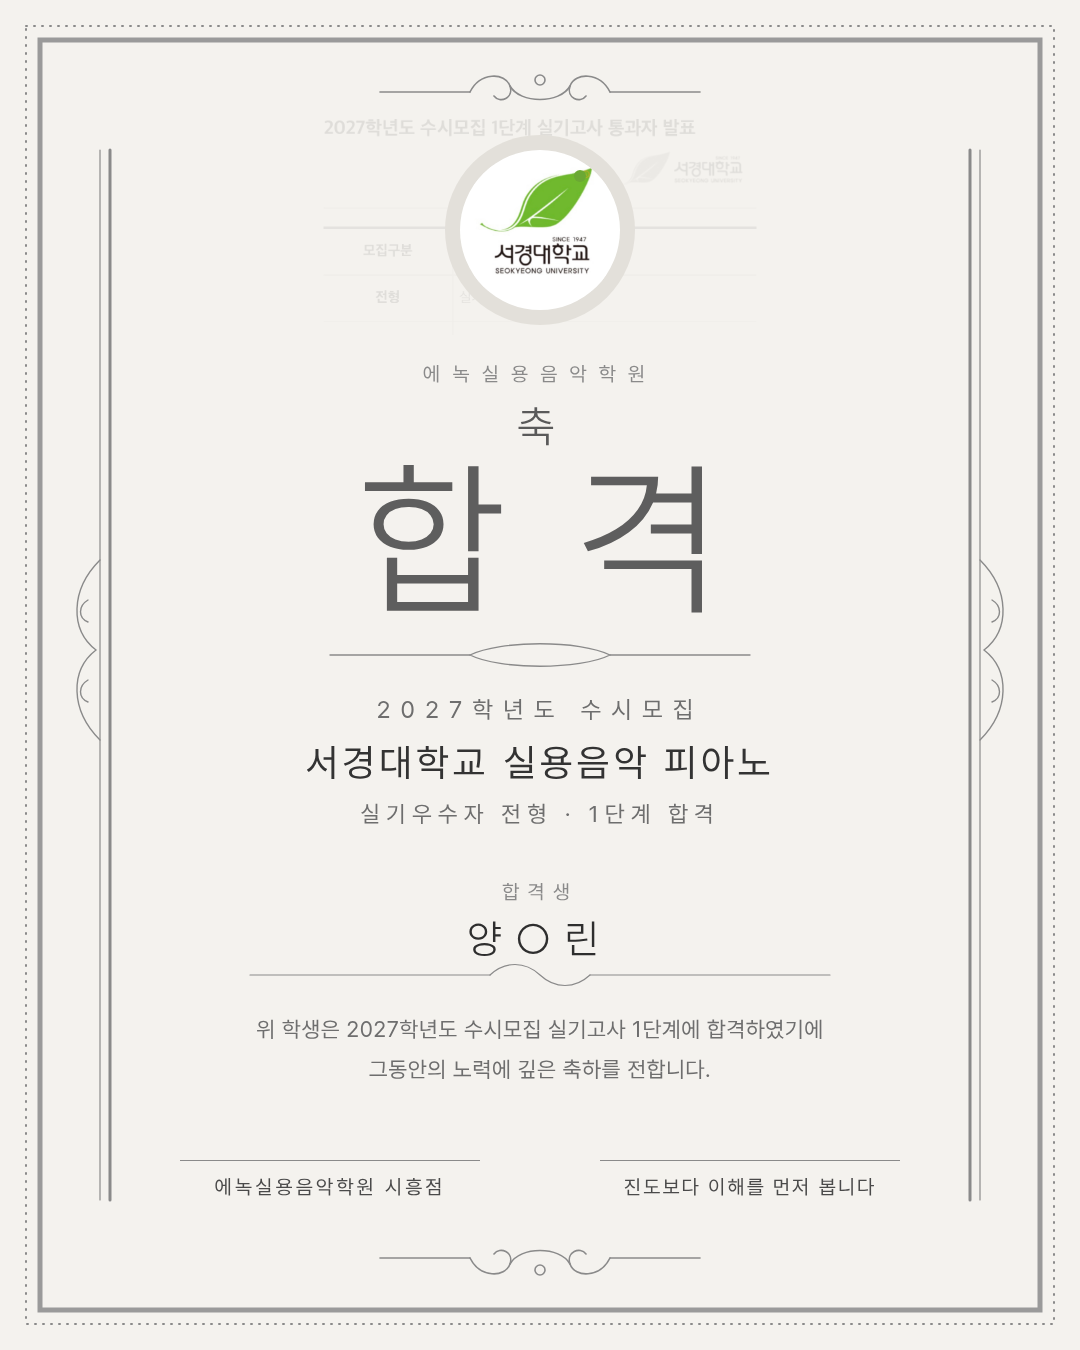
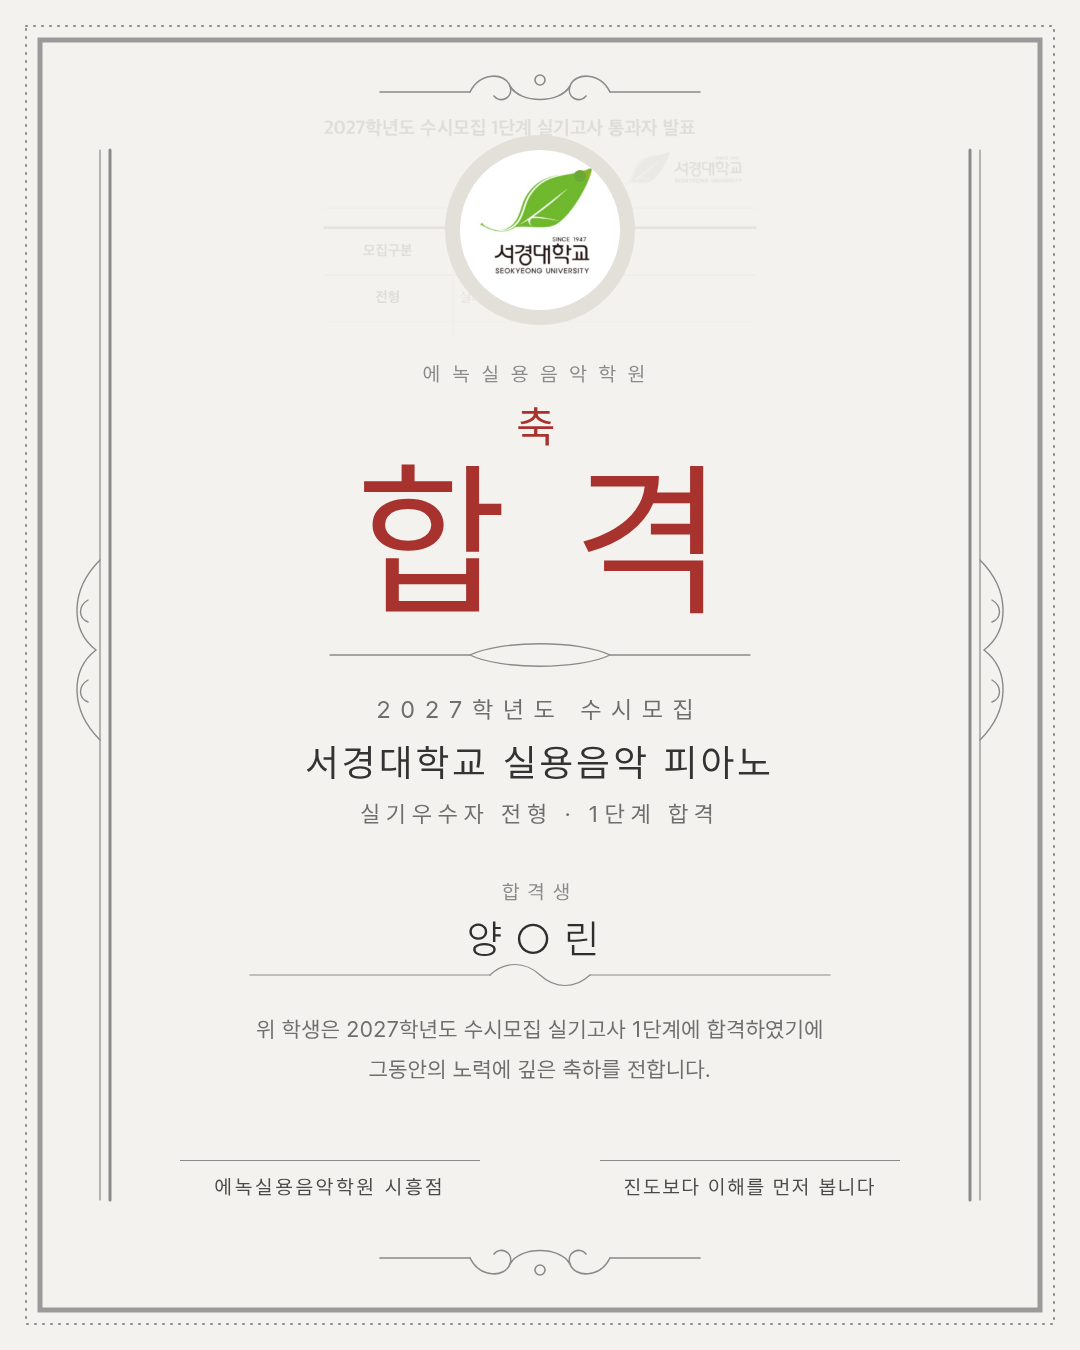
합격 포스터(화이트): 축 합격을 빨간 글씨로
Claude-Session: https://claude.ai/code/session_01HGbZvgMeYrbU7mY8bwfjyb

Changed region(s): [[0.3361, 0.3422, 0.4583, 0.4667], [0.55, 0.3422, 0.6722, 0.4667], [0.4889, 0.3111, 0.5194, 0.3422]]

diff --git a/output/합격_서경대_피아노/poster_white.html b/output/합격_서경대_피아노/poster_white.html
@@ -34,8 +34,8 @@
 <div style="position:absolute;left:114px;top:20px;width:12px;height:12px;border-radius:50%;background:#6BA834"></div>
 </div>
 <div class="a c" style="top:362px;font-size:20px;letter-spacing:12px;color:#8A8A8A">에녹실용음악학원</div>
-<div class="a c" style="top:400px;font-size:44px;font-weight:300;letter-spacing:8px;color:#5A5A5A">축</div>
-<div class="a c" style="top:455px;font-size:170px;font-weight:300;letter-spacing:70px;padding-left:70px;line-height:1;color:#5E5E5E">합격</div>
+<div class="a c" style="top:400px;font-size:44px;font-weight:400;letter-spacing:8px;color:#A8322D">축</div>
+<div class="a c" style="top:455px;font-size:170px;font-weight:400;letter-spacing:70px;padding-left:70px;line-height:1;color:#A8322D">합격</div>
 <div class="a c" style="top:695px;font-size:24px;letter-spacing:10px;color:#6E6E6E">2027학년도 수시모집</div>
 <div class="a c" style="top:740px;font-size:38px;font-weight:400;letter-spacing:4px;color:#333">서경대학교 실용음악 피아노</div>
 <div class="a c" style="top:800px;font-size:23px;letter-spacing:6px;color:#6E6E6E">실기우수자 전형 · 1단계 합격</div>
